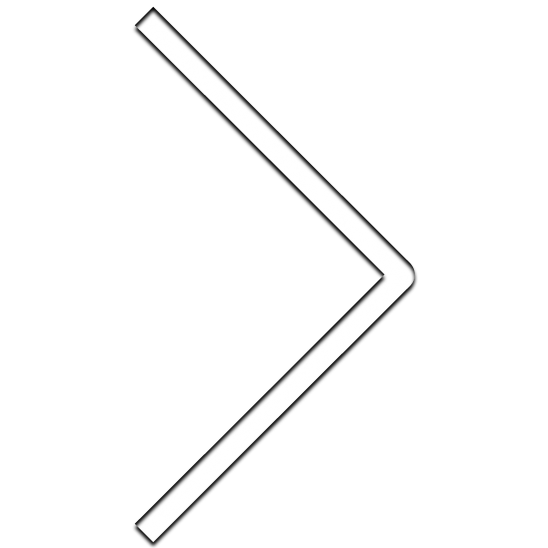
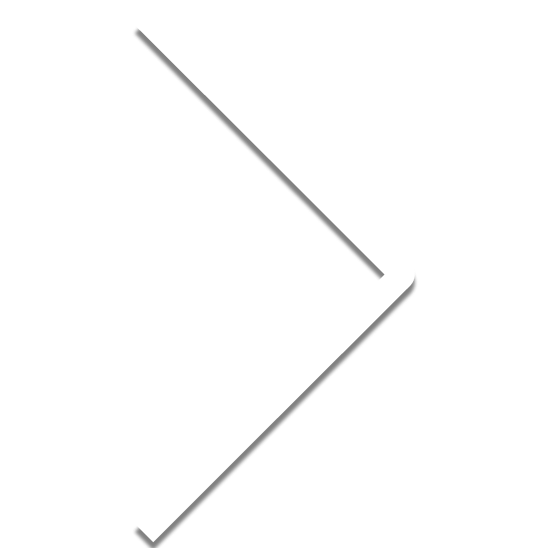
fleche page services modifiée

diff --git a/wp-content/themes/page_statique/services.html b/wp-content/themes/page_statique/services.html
@@ -115,22 +115,22 @@
       <div class="liste-luttes">
         <div class="luttes-box">
           <a href>Droit a la sante</a
-          ><img src="./sources/medias/image/arrow.png" />
+          ><img src="./sources/medias/image/fleche_drop_shadow.png" />
         </div>
 
         <div class="luttes-box">
           <a href>Droit des peuples autochtones</a
-          ><img src="./sources/medias/image/arrow.png" />
+          ><img src="./sources/medias/image/fleche_drop_shadow.png" />
         </div>
 
         <div class="luttes-box">
           <a href>Droit economique,sociaux et culturels(DESC)</a
-          ><img src="./sources/medias/image/arrow.png" />
+          ><img src="./sources/medias/image/fleche_drop_shadow.png" />
         </div>
 
         <div class="luttes-box">
           <a href>Droit des personnes en detention</a
-          ><img src="./sources/medias/image/arrow.png" />
+          ><img src="./sources/medias/image/fleche_drop_shadow.png" />
         </div>
       </div>
     </div>
